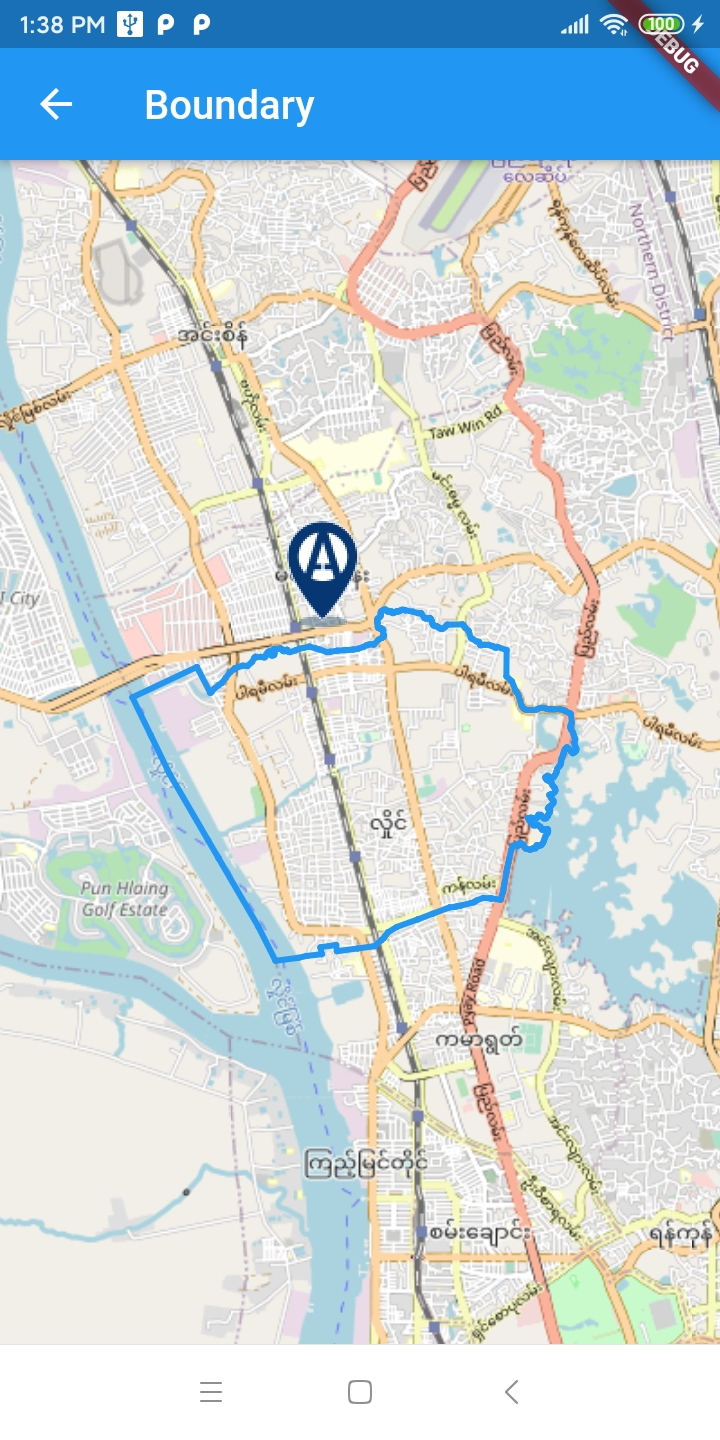
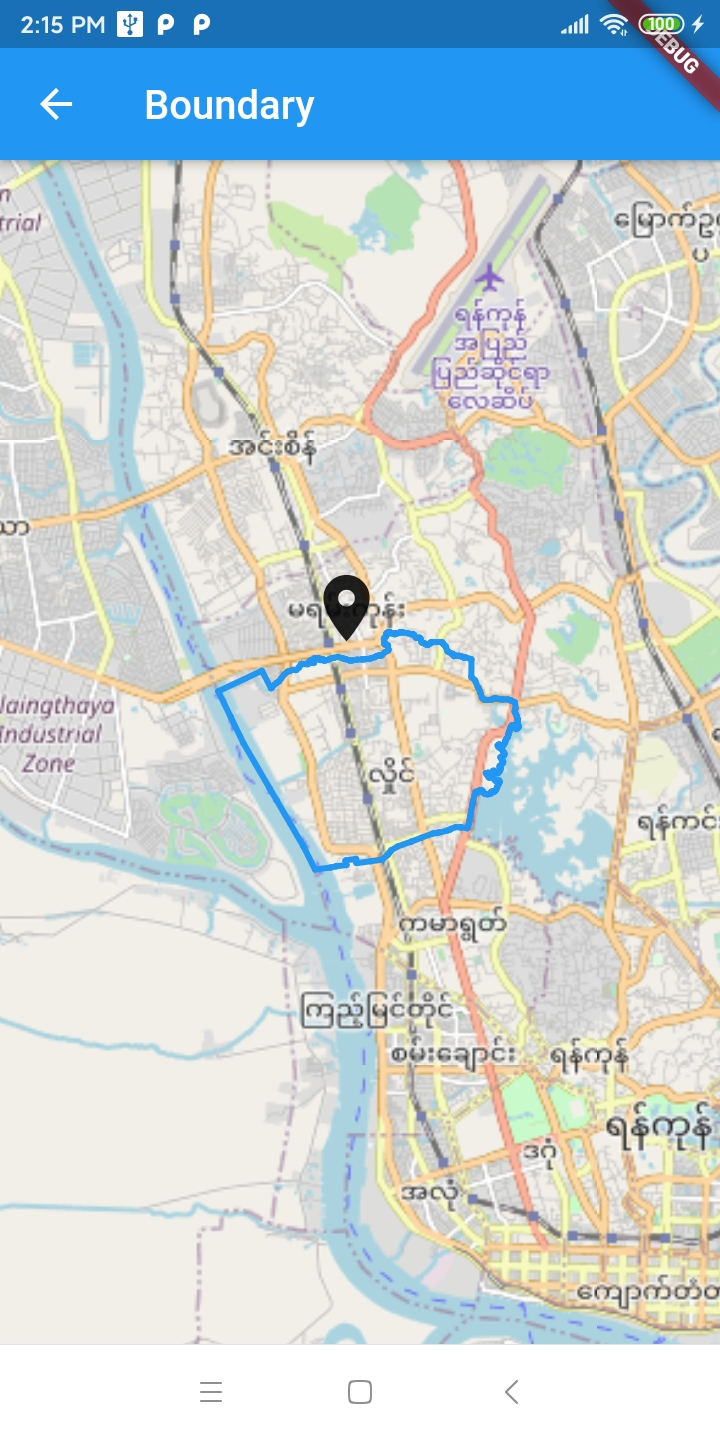
commit for changes...

diff --git a/lib/layers.dart b/lib/layers.dart
@@ -21,8 +21,7 @@ class MapLayers extends StatelessWidget {
                 width: 80.0,
                 height: 80.0,
                 point: LatLng(16.8296146, 96.189117),
-                builder: (ctx) =>
-                Image(image: AssetImage('assets/ic_current_location.png')),
+                builder: (ctx) => Icon(Icons.location_on, size: 40),
               ),
             ],
           ),
@@ -41,8 +40,7 @@ class MapLayers extends StatelessWidget {
                   width: 80.0,
                   height: 80.0,
                   point: LatLng(16.8296146, 96.189117),
-                  builder: (ctx) =>
-                  Image(image: AssetImage('assets/ic_current_location.png')),
+                  builder: (ctx) => Icon(Icons.location_on, size: 40),
                 ),
               ],
             ),

diff --git a/lib/openStreet.dart b/lib/openStreet.dart
@@ -69,7 +69,7 @@ class _OpenStreetPageState extends State<OpenStreetPage> {
                 height: 80.0,
                 point: LatLng(16.8660884, 96.1171103),
                 builder: (ctx) =>
-                    Image(image: AssetImage('assets/ic_current_location.png')),
+                    Icon(Icons.location_on, size: 40),
               ),
             ],
           ),
